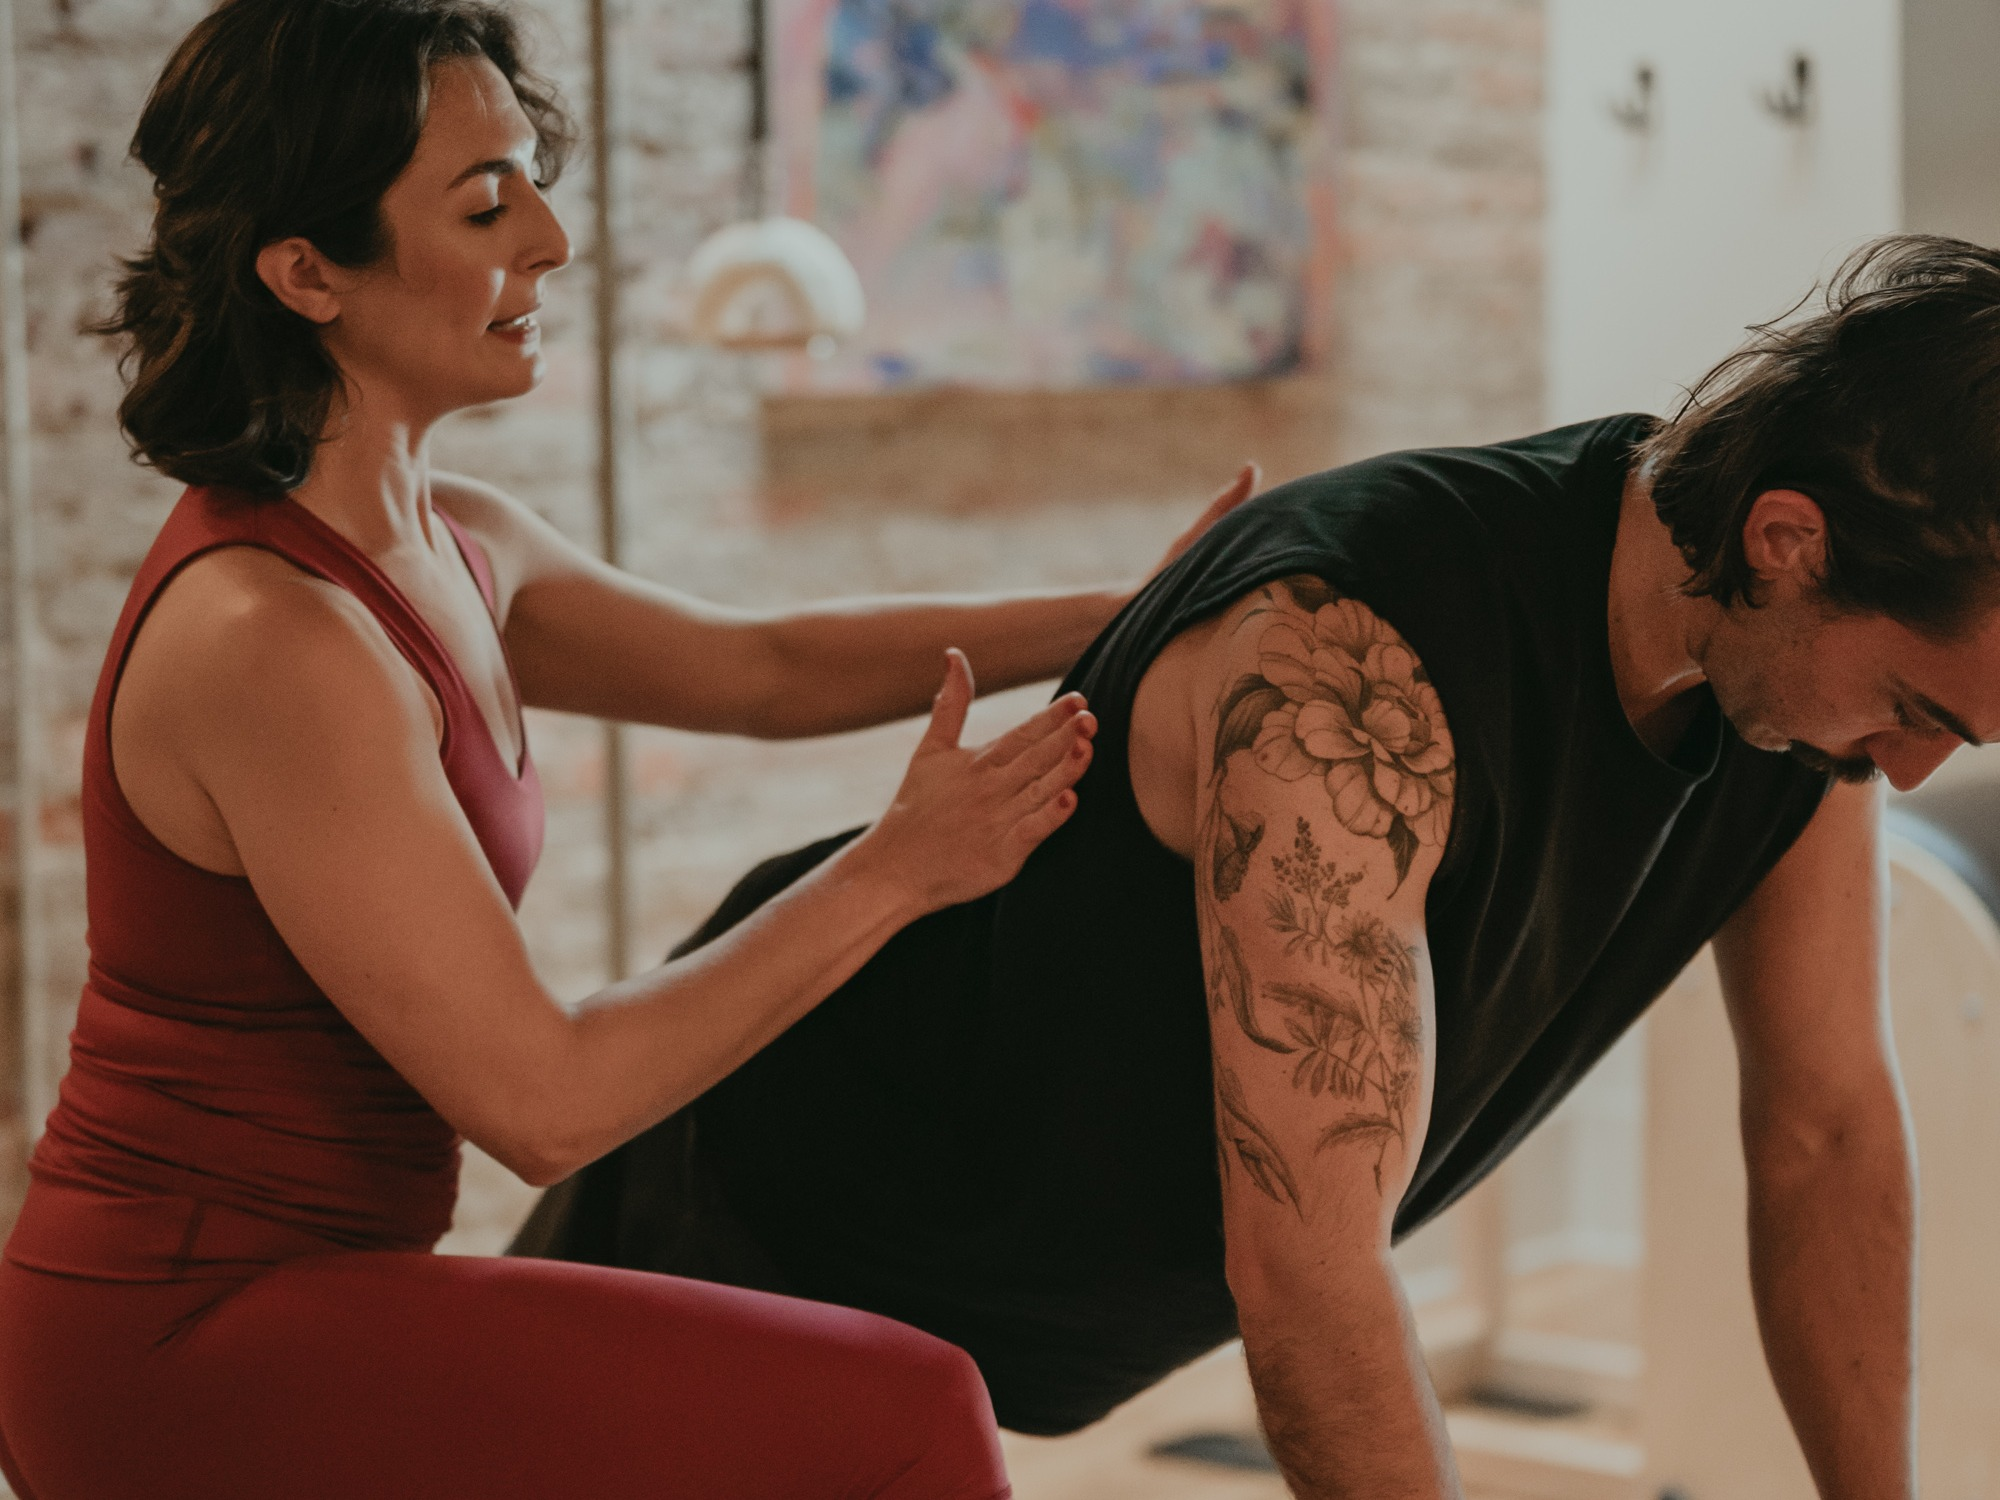
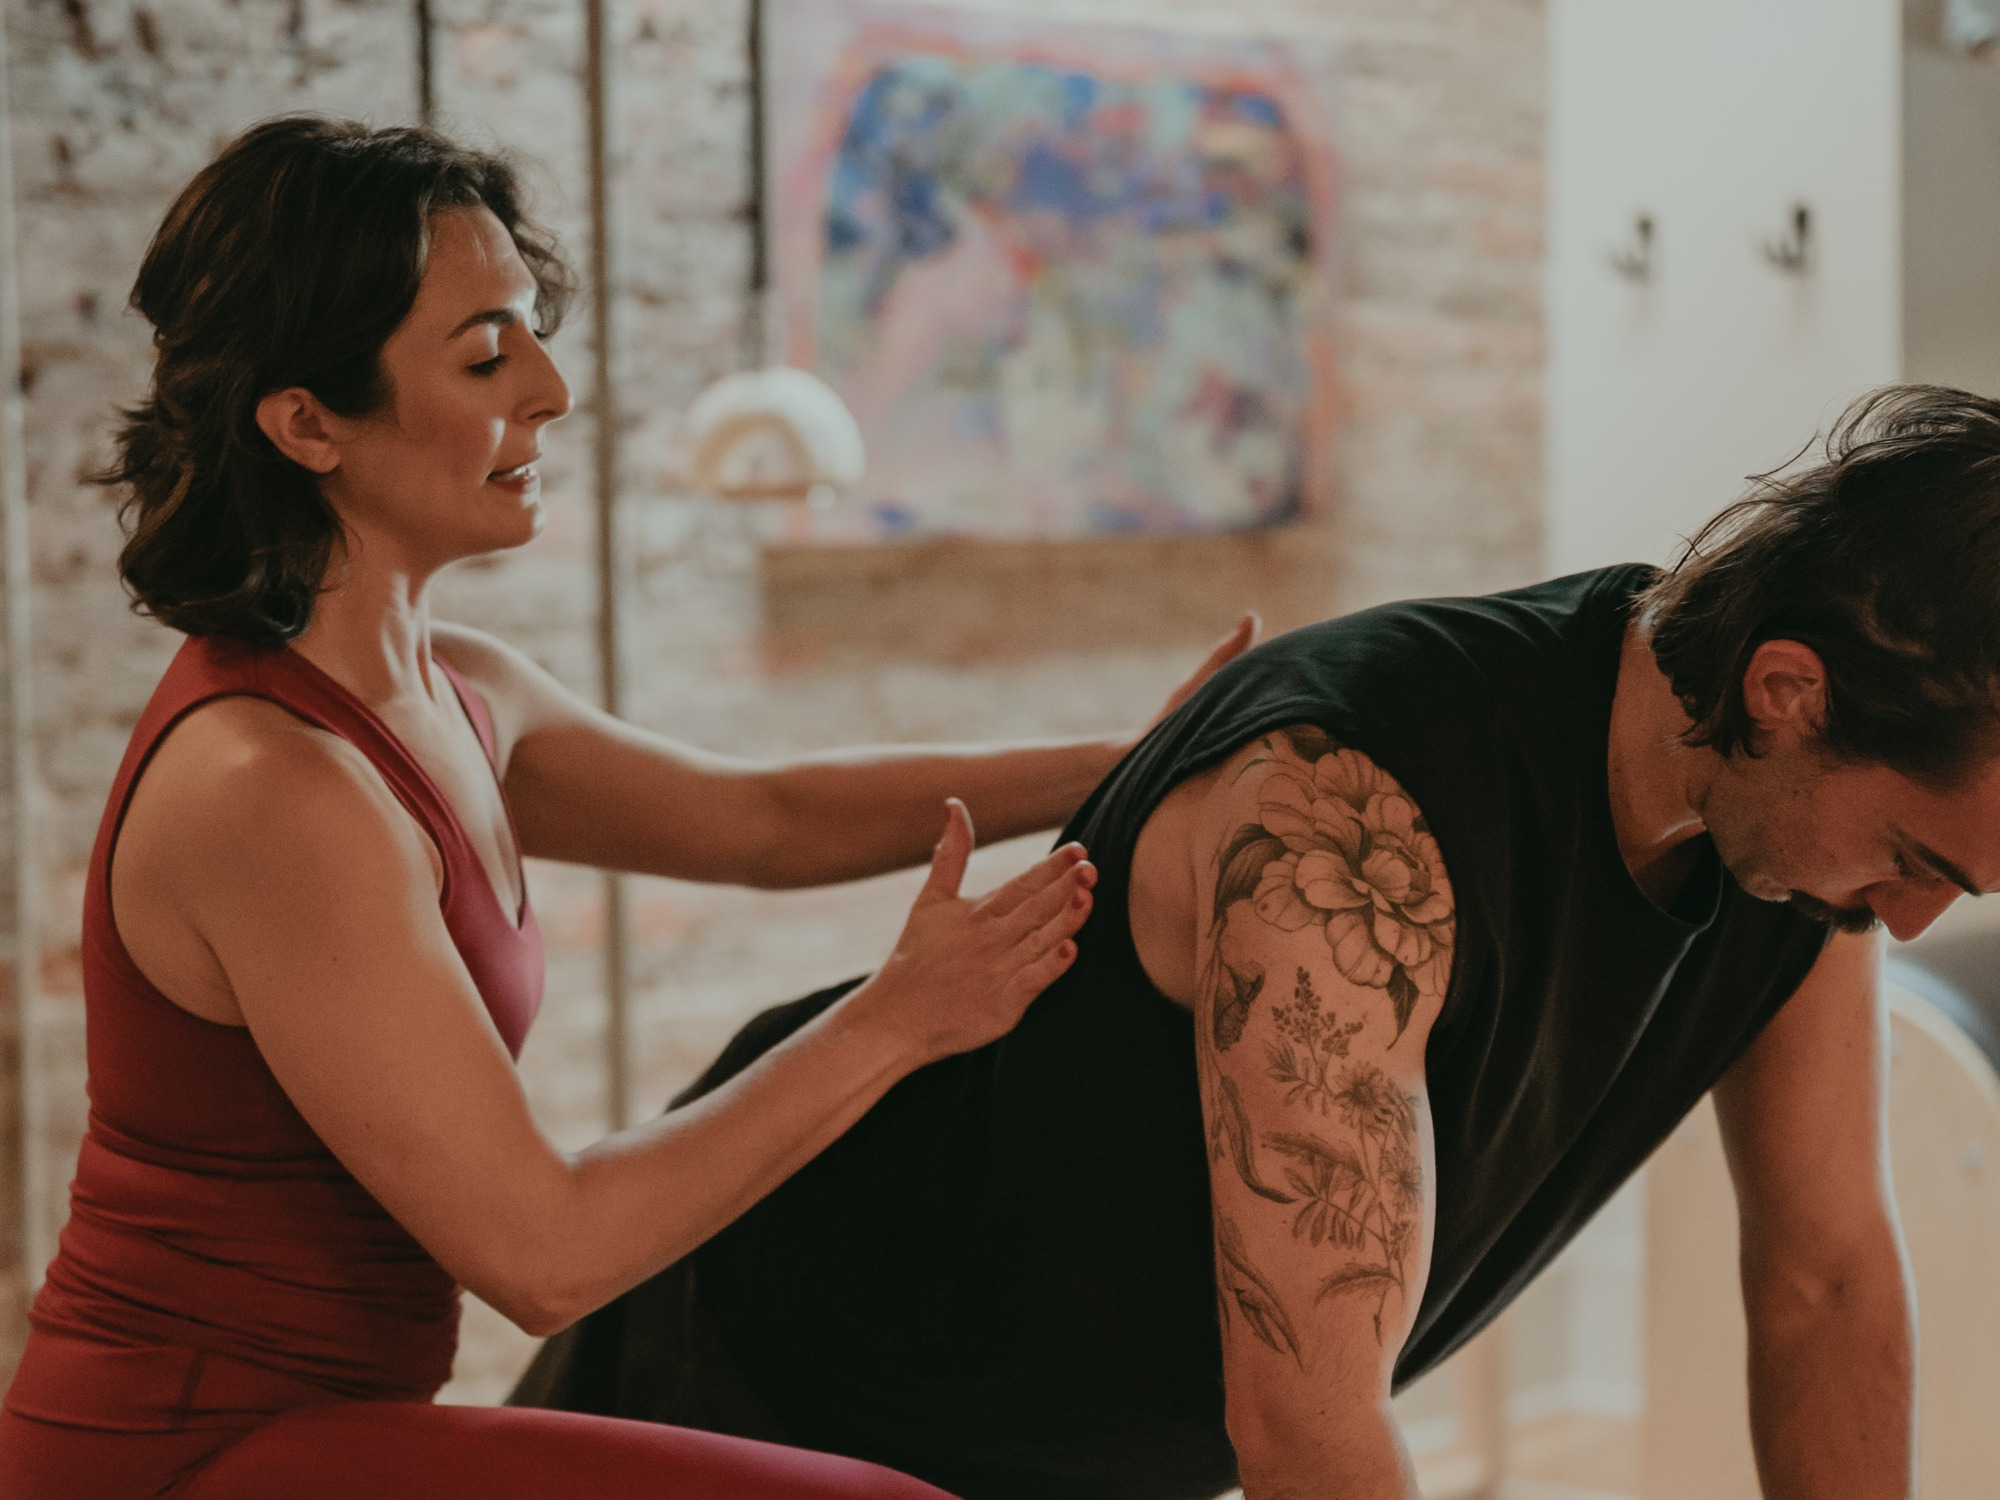
Widen homepage Privates card photo crop
Card was cropping the photo too tight from the default scale-[1.15]
zoom on top of an already-tight source crop. Removes the extra zoom
for this card and recrops the source with more headroom.

diff --git a/src/components/OfferingCards.tsx b/src/components/OfferingCards.tsx
@@ -74,6 +74,9 @@ const offerings: Offering[] = [
   {
     title: "Privates, Duets & Trios",
     image: "/photo-private.jpg",
+    // Source photo is already framed to the card's aspect ratio; the
+    // default scale-[1.15] zoom crops it in too tight.
+    photoScale: "scale-100",
     tagline: "Fully customized. Your body, your goals, your pace.",
     description:
       "One-on-one, with a partner, or as a trio. Full apparatus access tailored entirely to you. Whether you're rehabbing, training for something specific, or just prefer individual attention, this is the fastest path to results.",
